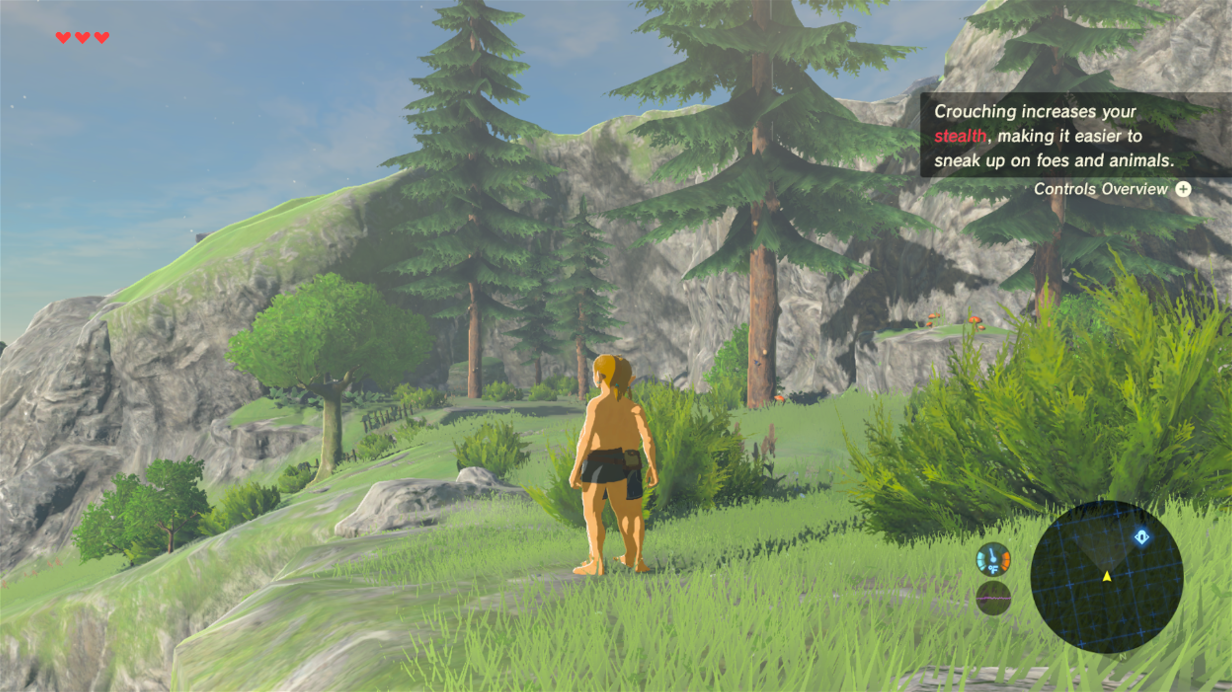
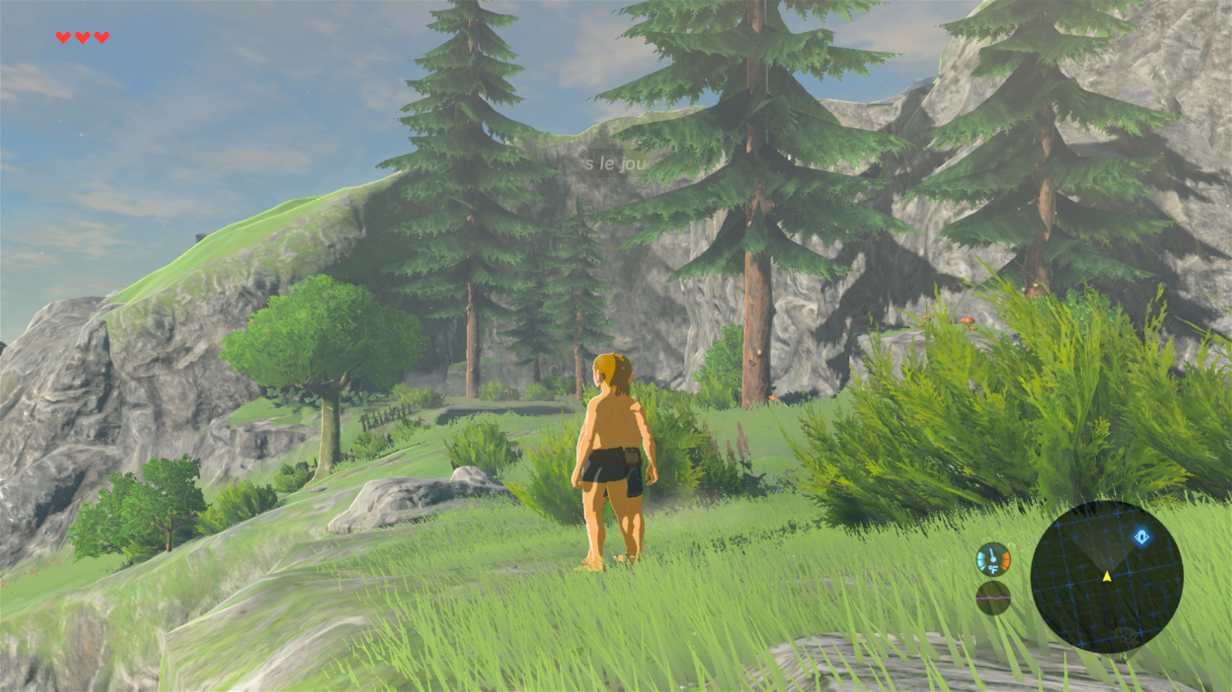
Teleportation : corps Havok trouve depuis l'acteur, clic court rendu au jeu
- La chaine globale vers le corps Havok de Link change d'un lancement a
  l'autre (wp2, wp3 : annule par le garde-fou). On passe d'abord par
  l'acteur [[[Acteur+0x578]+0x80]+0x410], position +0x1c0, vitesse +0x270,
  vtable controlee.
- Le clic du stick gauche est retenu pendant le maintien ; un clic court
  (< 350 ms) est rendu au jeu (accroupissement normal).
- Essai wp4 : 16 m, arrivee a 12 cm, pas d'accroupissement ; clic court :
  Link accroupi.

diff --git a/plugin/overlay/source/program/warp.cpp b/plugin/overlay/source/program/warp.cpp
@@ -12,6 +12,7 @@
 #include <cmath>
 #include <cstdio>
 #include <cstring>
+#include <initializer_list>
 
 namespace coop::warp {
 
@@ -21,7 +22,7 @@ namespace coop::warp {
          * Adresses 1.9.0 citees par botw-coop (docs/reverse-engineering.md, « Moving Link (warp) »),
          * CONTROLEES a chaque teleportation : la position lue au bout de la chaine doit etre celle
          * de Link (a 1 m pres), sinon rien n'est ecrit.
-         * - corps Havok de Link : [[[main+0x1dbfdf0]+0xf0]+0xd28], position (Vec3f) a +0x5e0 ;
+         * - corps Havok de Link : deux chaines, voir HavokBody() ;
          * - matrice de l'acteur : Actor+0x398 (deja utilisee par le plugin) ;
          * - copie de position de PlayerInfo : +0x88 (deja utilisee) ;
          * - hauteurs de depart de chute du joueur : Player+0x860 et Player+0x20d0.
@@ -51,34 +52,85 @@ namespace coop::warp {
             return true;
         }
 
-        std::uintptr_t HavokBody() {
-            const auto base = exl::util::GetMainModuleInfo().m_Total.m_Start;
-            std::uintptr_t p = 0;
-            if (!ReadAt(base + HavokRoot, p) || p < 0x1000 || !ReadAt(p + 0xf0, p) || p < 0x1000 || !ReadAt(p + 0xd28, p) || p < 0x1000)
-                return 0;
-            return p;
-        }
-
         float Dist(const float a[3], const float b[3]) {
             const float dx = a[0] - b[0], dy = a[1] - b[1], dz = a[2] - b[2];
             return std::sqrt(dx * dx + dy * dy + dz * dz);
         }
 
+        /* Suit une chaine de pointeurs ; 0 si un maillon est nul ou illisible. */
+        std::uintptr_t Follow(std::uintptr_t p, std::initializer_list<std::uintptr_t> offsets) {
+            for (const auto off : offsets) {
+                if (p < 0x1000 || !coop::game::CanReadMemory(p + off, 8) || !ReadAt(p + off, p))
+                    return 0;
+            }
+            return p < 0x1000 ? 0 : p;
+        }
+
+        /*
+         * Corps Havok de Link (hkpRigidBody). D'apres botw-coop (player.cpp, offsets.hpp) :
+         * - depuis l'acteur : [[[Acteur+0x578]+0x80]+0x410] ;
+         * - globale : [[[main+0x1dbfdf0]+0xf0]+0xd28] + 0x5e0 - 0x1c0 (le +0x5e0 de cette chaine est
+         *   la position du corps, qui est a +0x1c0 dans le corps) ;
+         * - position (translation de la transformation du mouvement) +0x1c0, vitesse lineaire +0x270,
+         *   vtable main+0x1b87b20.
+         * Retenu seulement si la position lue est celle de Link a 1 m pres (la chaine globale passe par
+         * une table remplie dans l'ordre de chargement : dans l'essai wp2 elle menait ailleurs).
+         */
+        constexpr std::uintptr_t Body_Pos = 0x1c0, Body_Vel = 0x270, BodyVtable = 0x1b87b20;
+        bool s_VtableOk = false;
+
+        std::uintptr_t HavokBody(const coop::game::PlayerState& st, int& which) {
+            const auto base = exl::util::GetMainModuleInfo().m_Total.m_Start;
+            std::uintptr_t global = Follow(base, { HavokRoot, 0xf0, 0xd28 });
+            if (global != 0)
+                global += 0x5e0 - Body_Pos;
+            const std::uintptr_t candidates[2] = { Follow(st.m_PlayerActor, { 0x578, 0x80, 0x410 }), global };
+            for (int i = 0; i < 2; i++) {
+                float pos[3] = {};
+                std::uintptr_t vt = 0;
+                const bool readable = candidates[i] != 0 && coop::game::CanReadMemory(candidates[i], Body_Vel + 12);
+                if (readable) {
+                    ReadAt(candidates[i], vt);
+                    ReadAt(candidates[i] + Body_Pos, pos);
+                }
+                const bool vtOk = vt == base + BodyVtable;
+                static int s_Logged = 0;
+                if (s_Logged++ < 8)
+                    Logging.Log("[botw-coop] teleportation : chaine %s -> %lx, vtable %s, position (%.2f, %.2f, %.2f)",
+                        i == 0 ? "acteur" : "globale", candidates[i], vtOk ? "attendue" : "AUTRE",
+                        static_cast<double>(pos[0]), static_cast<double>(pos[1]), static_cast<double>(pos[2]));
+                if (readable && Dist(pos, st.m_Pos) <= 1.0f) {
+                    which = i;
+                    s_VtableOk = vtOk;
+                    return candidates[i];
+                }
+            }
+            return 0;
+        }
+
+        std::uintptr_t s_Body = 0;
+
         /* Ecrit la position ; false si une verification echoue (rien n'est alors ecrit). */
         bool Place(const coop::game::PlayerState& st, const float target[3], bool firstWrite) {
-            const auto body = HavokBody();
-            float havok[3] = {};
-            if (body == 0 || !coop::game::CanReadMemory(body + 0x5e0, 12) || !ReadAt(body + 0x5e0, havok)) {
-                Logging.Log("[botw-coop] teleportation : corps Havok de Link introuvable, annulee");
-                return false;
+            if (firstWrite) {
+                int which = -1;
+                s_Body = HavokBody(st, which);
+                if (s_Body == 0) {
+                    Logging.Log("[botw-coop] teleportation : corps Havok de Link introuvable, annulee (rien n'est ecrit)");
+                    return false;
+                }
+                Logging.Log("[botw-coop] teleportation : corps Havok trouve par la chaine %s", which == 0 ? "acteur" : "globale");
             }
-            if (firstWrite && Dist(havok, st.m_Pos) > 1.0f) {
-                Logging.Log("[botw-coop] teleportation : position Havok (%.2f, %.2f, %.2f) differente de Link (%.2f, %.2f, %.2f), annulee",
-                    static_cast<double>(havok[0]), static_cast<double>(havok[1]), static_cast<double>(havok[2]),
-                    static_cast<double>(st.m_Pos[0]), static_cast<double>(st.m_Pos[1]), static_cast<double>(st.m_Pos[2]));
+            const auto body = s_Body;
+            if (body == 0)
                 return false;
+            std::memcpy(reinterpret_cast<void*>(body + Body_Pos), target, 12);
+            /* Vitesse a zero (sinon Link garde sa vitesse de chute), seulement si la vtable est
+               celle d'un hkpRigidBody : on est alors sur du decalage de la vitesse. */
+            if (s_VtableOk) {
+                const float zero[3] = { 0, 0, 0 };
+                std::memcpy(reinterpret_cast<void*>(body + Body_Vel), zero, 12);
             }
-            std::memcpy(reinterpret_cast<void*>(body + 0x5e0), target, 12);
             float* mtx = reinterpret_cast<float*>(st.m_PlayerActor + Actor_Mtx);
             mtx[3] = target[0];
             mtx[7] = target[1];
@@ -96,12 +148,23 @@ namespace coop::warp {
 
     }
 
-    void OnPad(std::uint64_t buttons) {
+    std::uint64_t FilterPad(std::uint64_t buttons) {
+        constexpr std::uint64_t TapMs = 350;       /* relache avant : appui court rendu au jeu */
+        constexpr std::uint64_t ReplayMs = 120;    /* duree de l'appui rendu */
+        static std::uint64_t s_ReplayUntil = 0;
         const std::uint64_t now = coop::clock::NowMs();
         if ((buttons & ButtonStickL) == 0) {
+            static int s_Logged = 0;
+            if (s_PressedSince != 0 && !s_Fired && now - s_PressedSince < TapMs) {
+                s_ReplayUntil = now + ReplayMs;
+                if (s_Logged++ < 10)
+                    Logging.Log("[botw-coop] teleportation : appui court (%lu ms) rendu au jeu", now - s_PressedSince);
+            } else if (s_PressedSince != 0 && !s_Fired && s_Logged++ < 10) {
+                Logging.Log("[botw-coop] teleportation : clic relache apres %lu ms, ni appui court ni maintien", now - s_PressedSince);
+            }
             s_PressedSince = 0;
             s_Fired = false;
-            return;
+            return now < s_ReplayUntil ? (buttons | ButtonStickL) : buttons;
         }
         if (s_PressedSince == 0)
             s_PressedSince = now;
@@ -109,6 +172,7 @@ namespace coop::warp {
             s_Fired = true;
             s_Requested = true;
         }
+        return buttons & ~ButtonStickL;
     }
 
     void OnFrame() {

diff --git a/plugin/overlay/source/program/input_inject.cpp b/plugin/overlay/source/program/input_inject.cpp
@@ -266,9 +266,17 @@ namespace coop::input_inject {
                 }
             }
 #endif
-            /* Teleportation : maintien du clic du stick gauche (boutons tels que le jeu les voit). */
-            if (states != nullptr && count > 0)
-                coop::warp::OnPad(states[count - 1].m_Buttons);
+            /* Teleportation : maintien du clic du stick gauche, retenu du jeu pendant le maintien. */
+            /* Decision prise une fois, sur l'etat le plus recent (indice 0 de GetNpadStates),
+               puis appliquee au bit du stick gauche de tous les etats rendus. */
+            /* Seulement pour un style de manette connecte (bit 0 de m_Attributes, HidNpadAttribute
+               IsConnected de libnx) : les styles inutilises ont le bouton relache et casseraient le maintien. */
+            if (states != nullptr && count > 0 && (states[0].m_Attributes & 1) != 0) {
+                constexpr std::uint64_t StickL = 0x10;
+                const std::uint64_t ls = coop::warp::FilterPad(states[0].m_Buttons) & StickL;
+                for (int j = 0; j < count; j++)
+                    states[j].m_Buttons = (states[j].m_Buttons & ~StickL) | ls;
+            }
             (void)states;
             (void)count;
         }

diff --git a/plugin/overlay/source/program/warp.hpp b/plugin/overlay/source/program/warp.hpp
@@ -10,8 +10,12 @@
  */
 namespace coop::warp {
 
-    /* Fil du jeu, a chaque lecture de manette : boutons tels que le jeu va les voir. */
-    void OnPad(std::uint64_t buttons);
+    /*
+     * Fil du jeu, a chaque lecture de manette : recoit les boutons et renvoie ceux que le jeu
+     * doit voir. Le clic du stick gauche est retenu tant qu'il est maintenu ; relache en moins
+     * de 350 ms, il est rendu au jeu comme un appui court (Link s'accroupit comme d'habitude).
+     */
+    std::uint64_t FilterPad(std::uint64_t buttons);
 
     /* Fil du jeu, a chaque image. */
     void OnFrame();

diff --git a/NOTES.md b/NOTES.md
@@ -631,13 +631,13 @@ But : obtenir une mort decidee par le jeu sans piloter un combat (la sauvegarde 
 - Desactivation : build avec `-DCOOP_NO_SEPARATE_SAVE` (le fichier de reglages est lu apres l'ouverture des sauvegardes par le jeu).
 - Preuve : `docs/evidence/2026-11-13_sauvegardes-coop-separees_sv1.log`.
 
-### 5.31 Teleportation vers l'autre joueur, courte distance (2026-11-13, essai `wp1`) - [V] a 16 m, deux instances
+### 5.31 Teleportation vers l'autre joueur, courte distance (2026-11-13, essais `wp1` a `wp4`) - [V] a 16 m, deux instances
 
 - Commande : maintenir le clic du stick gauche 1,5 s (bit 0x10 des boutons, comme « LS » dans `tools/drive.py`). Distance limitee a 250 m ; au-dela, message « partenaire trop loin ». Arrivee sur la position du partenaire, 0,5 m au-dessus.
-- Ecritures (adresses citees par botw-coop, « Moving Link (warp) ») : position du corps Havok de Link `[[[main+0x1dbfdf0]+0xf0]+0xd28]+0x5e0`, matrice de l'acteur `+0x398`, copie de position de `PlayerInfo` `+0x88`, hauteurs de depart de chute `Player+0x860` et `+0x20d0`, puis les memes ecritures pendant 10 images.
-- Garde-fous a nous : avant la premiere ecriture, la position lue au bout de la chaine Havok doit etre celle de Link a 1 m pres, sinon rien n'est ecrit ; une hauteur de chute n'est ecrite que si sa valeur est a moins de 300 m de la hauteur de Link. Vitesse Havok non touchee (decalage non confirme).
-- [V] La chaine Havok de 1.9.0 tient chez nous : le controle a reussi (sinon le journal dirait « differente de Link »).
-- [V] Essai `wp1` : J1 en (-1024.48, 252.63, 1799.95), J2 a 16,3 m en (-1015.59, 250.95, 1813.54) ; apres 2 s de maintien, J1 en (-1015.63, 250.93, 1813.65), soit 11 cm de J2, pose au sol ; cœurs inchanges ; bandeau « Téléporté vers le joueur 2 (16 m) » emis.
-- Effet de bord : le clic du stick fait aussi s'accroupir Link (le jeu affiche son astuce « Crouching increases your stealth »). botw-coop retient ce bouton pendant le maintien ; pas nous, pour l'instant.
-- Non verifie : grandes distances (jusqu'a 250 m), pente, eau, falaise, partenaire en vol plane ou en escalade, interieur, Eden.
-- Preuves : `docs/evidence/2026-11-13_teleportation_wp1.log`, capture `2026-11-13_teleportation_J1-arrive-chez-J2.png`.
+- Le clic est retenu du jeu pendant qu'il est maintenu ; relache en moins de 350 ms, il est rendu comme un appui de 120 ms (Link s'accroupit normalement). La decision se prend sur l'etat le plus recent d'une manette connectee (bit 0 de `m_Attributes`) et s'applique a tous les etats rendus.
+- Ecritures (d'apres botw-coop, « Moving Link (warp) », `player.cpp`, `offsets.hpp`) : corps Havok de Link (hkpRigidBody), position `+0x1c0` et vitesse lineaire `+0x270` (mise a zero) ; matrice de l'acteur `+0x398` ; copie de position de `PlayerInfo` `+0x88` ; hauteurs de depart de chute `Player+0x860` et `+0x20d0` ; puis les memes ecritures pendant 10 images.
+- Corps Havok : chaine depuis l'acteur `[[[Acteur+0x578]+0x80]+0x410]` d'abord, puis chaine globale `[[[main+0x1dbfdf0]+0xf0]+0xd28] + 0x5e0 - 0x1c0`. Garde-fous a nous : un corps n'est retenu que si la position qu'il porte est celle de Link a 1 m pres ; la vitesse n'est ecrite que si sa vtable est `main+0x1b87b20` ; une hauteur de chute n'est ecrite que si sa valeur est a moins de 300 m de celle de Link.
+- [V] **La chaine globale change d'un lancement a l'autre chez nous** : juste dans `wp1`, elle menait ailleurs dans `wp2` et `wp3` (position lue (-0.30, 1.36, -0.00)) ; le garde-fou a annule la teleportation sans rien ecrire. Dans `wp3`, la chaine depuis l'acteur lue a `+0x5e0` (mauvais decalage, corrige en `+0x1c0`) donnait (0, 0, 0). Dans `wp4`, chaine depuis l'acteur, vtable attendue, position de Link : retenue.
+- [V] Essai `wp4` : J1 de (-1024.48, 252.63, 1799.95) vers J2 a 16,0 m en (-1015.75, 250.96, 1813.27) ; arrivee en (-1015.80, 250.94, 1813.38), soit 12 cm de J2, au sol, cœurs inchanges ; pas d'accroupissement (capture `2026-11-13_teleportation_J1-arrive-chez-J2.png`). Appui court de 201 ms ensuite : rendu au jeu, Link accroupi a cote du pantin de J2 (`..._appui-court-accroupi.png`).
+- Non verifie : grandes distances (jusqu'a 250 m), pente, eau, falaise, partenaire en vol plane ou en escalade, interieur, vraie manette (seulement le pilote), Eden.
+- Preuves : `docs/evidence/2026-11-13_teleportation_essais-wp1-a-wp4.log`.

diff --git a/PROGRESS.md b/PROGRESS.md
@@ -44,7 +44,7 @@ Mode d'emploi : `README.md`.
 | Animation du joueur distant (marche, course, saut) | **vérifié à l'écran le 2026-11-13** pour attente / marche / course / sprint (d'après la vitesse, essai cp6) et **escalade** (état envoyé par le joueur, essai an2). Nage, vol plané, chute annoncée : en place, non vus à l'image. Surf : pas de séquence (empêche la création du pantin) | NOTES §5.27, §5.28, `2026-11-13_pantin-link_*.png` |
 | Modèle de Link pour le joueur distant | **vérifié à l'écran le 2026-11-13** (niveau 4) : acteur `CoopPlayer` (Link sans physique) généré depuis la RomFS de l'utilisateur ; repli automatique sur le PNJ s'il manque. Sans équipement | NOTES §5.27, `2026-11-13_pantin-link_deux-instances_J2-voit-J1.png` |
 | Personnage distant sans invite « Parler » (A près de lui ne bloque plus) | **vérifié à l'écran**, une et deux instances | `2026-11-12_parler_avant_invite-affichee.png`, `..._apres_invite-retiree.png`, `..._deux-instances_J2-face-a-J1_sans-invite.png`, NOTES §5.7 |
-| Téléportation vers l'autre joueur (maintien du clic du stick gauche, ≤ 250 m) | **vérifié à deux instances le 2026-11-13** sur 16 m (arrivée à 11 cm du partenaire, cœurs intacts). Effet de bord : Link s'accroupit. Grandes distances et terrains difficiles non essayés | NOTES §5.31 |
+| Téléportation vers l'autre joueur (maintien du clic du stick gauche, ≤ 250 m) | **vérifié à deux instances le 2026-11-13** sur 16 m (arrivée à 12 cm du partenaire, cœurs intacts) ; le clic court reste l'accroupissement du jeu. Grandes distances et terrains difficiles non essayés | NOTES §5.31 |
 | Sauvegardes coop séparées (`save:/coop/`, copie des sauvegardes normales au premier lancement) | **vérifié le 2026-11-13 à une instance** : copie faite, partie chargée depuis la copie, écriture du jeu dans la copie, originaux identiques (SHA-256). Sauvegarde de partie complète non essayée | NOTES §5.30, `2026-11-13_sauvegardes-coop-separees_sv1.log` |
 | Messages à l'écran (bandeau du jeu) : connexion, arrivée, départ, liaison perdue | **vérifié à l'écran le 2026-11-13** pour « connecté » et « Joueur 2 a quitté la partie » ; « a rejoint » et « liaison perdue » émis mais pas vus à l'image | NOTES §5.29, `2026-11-13_bandeau_*.png` |
 | Disparition du personnage quand le joueur distant se déconnecte | **vérifié à l'écran** (essai `c5`) | `2026-11-11_serveur_J1-parti-personnage-retire.png` |

diff --git a/README.md b/README.md
@@ -10,7 +10,7 @@ Mod de présence à deux joueurs pour *The Legend of Zelda: Breath of the Wild* 
 - Drapeaux de la liste blanche : progression (sanctuaires, tours, Créatures divines, Koroks) et objets de carte (ramassés, coffres, ennemis tués). Les étapes de quête, l'inventaire et le Compendium restent à chacun.
 - Points de vie et position des ennemis (première version).
 - Messages dans le bandeau du jeu quand l'autre joueur arrive ou part, et à la connexion.
-- **Téléportation vers l'autre joueur** : maintenir le clic du stick gauche 1,5 s (jusqu'à 250 m ; Link s'accroupit aussi).
+- **Téléportation vers l'autre joueur** : maintenir le clic du stick gauche 1,5 s (jusqu'à 250 m). Un clic court accroupit Link comme d'habitude.
 - **Sauvegardes coop séparées** : au premier lancement avec le mod, vos sauvegardes sont copiées dans un dossier `coop` des données de sauvegarde du jeu (les originales sont seulement lues) ; ensuite le jeu ne lit et n'écrit que cette copie. Retirer le mod rend vos sauvegardes normales, inchangées.
 - Inventaire, santé et équipement restent individuels.
 
